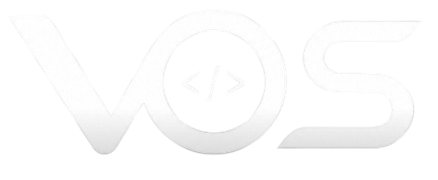
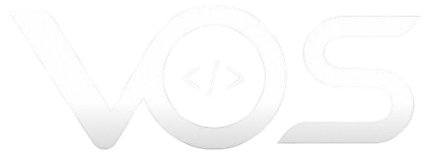
feat: implement custom Menubar component and BootScreen loading sequence

diff --git a/client/src/components/BootScreen.jsx b/client/src/components/BootScreen.jsx
@@ -54,11 +54,11 @@ export function BootScreen({ onComplete }) {
     >
       {/* Logo */}
       <img
-        src="/favicon.png"
+        src="/vos-white.png"
         alt="VOS"
         style={{
-          width: 80,
-          height: 80,
+          width: 160,
+          height:160,
           objectFit: "contain",
           marginBottom: 48,
           filter: "brightness(1) drop-shadow(0 0 20px rgba(255,255,255,0.1))",
@@ -77,7 +77,7 @@ export function BootScreen({ onComplete }) {
       >
         <div
           style={{
-            width: `${progress}%`,
+            width: progress + "%",
             height: "100%",
             background: "#fff",
             borderRadius: 2,

diff --git a/client/src/components/Menubar.jsx b/client/src/components/Menubar.jsx
@@ -1,7 +1,7 @@
 import React, { useState, useEffect } from "react";
 import { MacIcon } from "./MacIcon";
 
-export function Menubar({ activeApp, currentUser, onLogout, clipboardVal }) {
+export function Menubar({ activeApp, currentUser, onLogout, clipboardVal, theme }) {
   const [time, setTime] = useState(new Date());
   const [showCal, setShowCal] = useState(false);
   const [showClip, setShowClip] = useState(false);
@@ -23,10 +23,12 @@ export function Menubar({ activeApp, currentUser, onLogout, clipboardVal }) {
     setCopied(true); setTimeout(() => setCopied(false), 1500);
   };
 
+  const logoSrc = theme === "dark" ? "/vos-black.png" : "/vos-white.png";
+
   return (
     <div style={{ height: 24, background: "var(--bg-menubar)", borderBottom: "1px solid var(--border)", backdropFilter: "blur(20px)", display: "flex", alignItems: "center", padding: "0 12px", justifyContent: "space-between", position: "relative", zIndex: 1000 }}>
       <div style={{ display: "flex", alignItems: "center", gap: 14 }}>
-        <img src="/favicon.png" style={{ width: 14, height: 14, objectFit: "contain", borderRadius: 3, cursor: "pointer", filter: "drop-shadow(0 1px 2px rgba(0,0,0,0.15))" }} alt="logo" />
+        <img src={logoSrc} style={{ width: 16, height: 16, objectFit: "contain", borderRadius: 3, cursor: "pointer", filter: "drop-shadow(0 1px 2px rgba(0,0,0,0.15))" }} alt="logo" />
         {activeApp && <span style={{ fontSize: 12, color: "var(--text-secondary)", fontWeight: 500 }}>{activeApp}</span>}
       </div>
       <div style={{ display: "flex", alignItems: "center", gap: 12 }}>